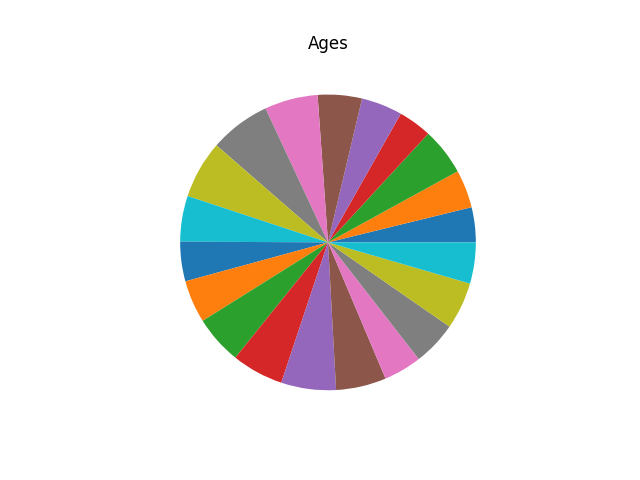
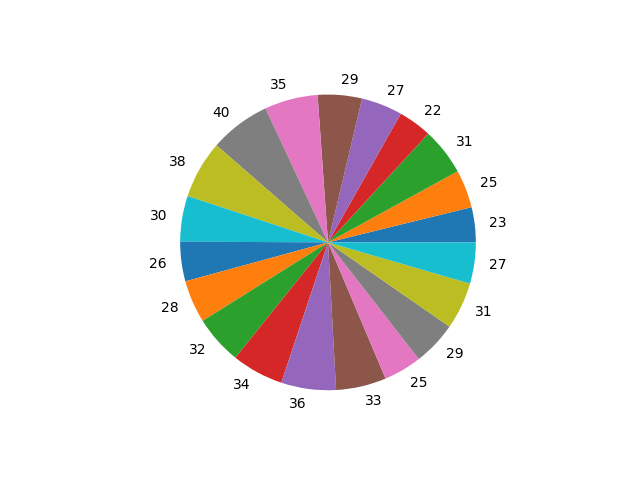
#16

diff --git a/visualization_pane.py b/visualization_pane.py
@@ -183,7 +183,7 @@ def app():
       title=st.text_input('Title:')
       labels=st.selectbox('Selecteaza coloana de etichete',options=df.columns)
       labels=df[labels]
-      plt.pie(df[x], labels=labels)
+      plt.pie(df[x], labels=labels,autopct='%1.1f%%')
       st.pyplot(plt)
       fn='pie_chart.png'
       plt.savefig(fn)
